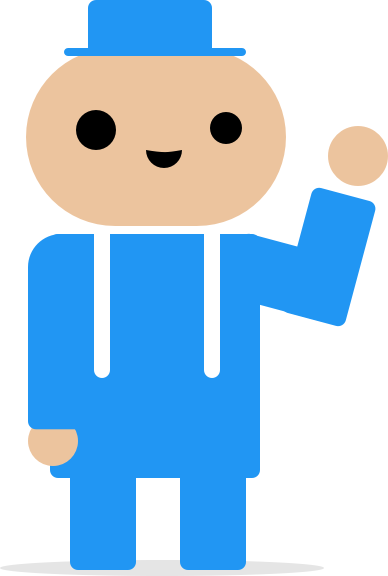
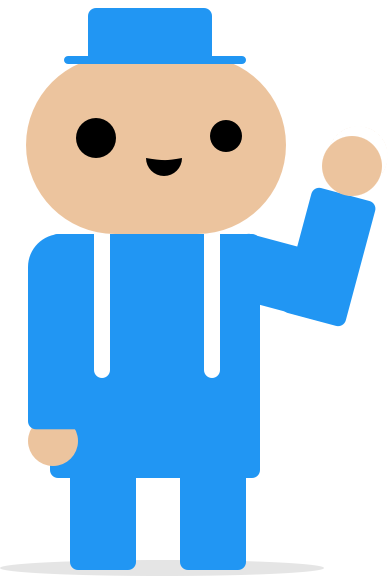
Donation tweaks
- Update paypal image
- Move popup visibility calculation into background
- Make popup visibility persistent to a suspended tab (even after discard cycle)
- Allow popup to show immediately if active tab is suspended (or undiscarded)

diff --git a/src/js/suspended.js b/src/js/suspended.js
@@ -19,7 +19,7 @@
   let currentUrl;
   let currentFaviconUrl;
   let currentTheme;
-  let currentHideNag;
+  let currentShowNag;
   let currentCommand;
   let currentReason;
 
@@ -184,24 +184,27 @@
     reasonMsgEl.innerHTML = reason;
   }
 
-  function handleDonationPopup(hideNag) {
-    const queueNag = !hideNag && !showingNag && currentHideNag !== hideNag;
-    currentHideNag = hideNag;
+  function handleDonationPopup(showNag, tabActive) {
+    const queueNag = showNag && !showingNag && currentShowNag !== showNag;
+    currentShowNag = showNag;
 
     if (queueNag) {
-      //show dude and donate link (randomly 1 of 20 times)
-      if (Math.random() > 0.95) {
-        var donationPopupFocusListener = function(e) {
-          e.target.removeEventListener('focus', donationPopupFocusListener);
+      var donationPopupFocusListener = function(e) {
+        if (e) {
+          e.target.removeEventListener('visibilitychange', donationPopupFocusListener);
+        }
 
-          //if user has donated since this page was first generated then dont display popup
-          if (!currentHideNag) {
-            loadDonationPopupTemplate();
-          }
-        };
-        window.addEventListener('focus', donationPopupFocusListener);
+        //if user has donated since this page was first generated then dont display popup
+        if (currentShowNag) {
+          loadDonationPopupTemplate();
+        }
+      };
+      if (tabActive) {
+        donationPopupFocusListener();
+      } else {
+        window.addEventListener('visibilitychange', donationPopupFocusListener);
       }
-    } else if (hideNag && showingNag) {
+    } else if (showNag && showingNag) {
       showingNag = false;
       document.getElementById('dudePopup').classList.remove('poppedup');
       document.getElementById('donateBubble').classList.remove('fadeIn');
@@ -588,8 +591,8 @@
     if (request.hasOwnProperty('theme')) {
       setTheme(request.theme);
     }
-    if (request.hasOwnProperty('hideNag')) {
-      handleDonationPopup(request.hideNag);
+    if (request.hasOwnProperty('showNag')) {
+      handleDonationPopup(request.showNag, request.tabActive);
     }
     if (request.hasOwnProperty('command')) {
       setCommand(request.command);

diff --git a/src/js/background.js b/src/js/background.js
@@ -24,6 +24,7 @@ var tgs = (function() {
   var TF_UNSUSPEND_ON_RELOAD_URL = 'unsuspendOnReloadUrl';
   var TF_SUSPEND_REASON = 'suspendReason'; // 1=auto-suspend, 2=manual-suspend, 3=discarded
   var TF_SCROLL_POS = 'scrollPos';
+  var TF_SHOW_NAG = 'showNag';
   var TF_SPAWNED_TAB_CREATE_TIMESTAMP = 'spawnedTabCreateTimestamp';
   var TF_SUSPENDED_TAB_INIT_PENDING = 'suspendedTabInitPending';
 
@@ -798,17 +799,26 @@ var tgs = (function() {
       ) {
         previewUri = preview.img;
       }
+
       const options = gsStorage.getSettings();
+
+      //show dude and donate link (randomly 1 of 20 times)
+      let showNag = getTabFlagForTabId(tab.id, TF_SHOW_NAG);
+      if (showNag === undefined || showNag === null) {
+        showNag = !options[gsStorage.NO_NAG] && Math.random() > 0.95;
+        setTabFlagForTabId(tab.id, TF_SHOW_NAG, showNag);
+      }
       getSuspendUnsuspendHotkey(function(hotkey) {
         var payload = {
           tabId: tab.id,
+          tabActive: tab.active,
           requestUnsuspendOnReload: true,
           url: originalUrl,
           favicon: favicon,
           title: title,
           whitelisted: whitelisted,
           theme: options[gsStorage.THEME],
-          hideNag: options[gsStorage.NO_NAG],
+          showNag: showNag,
           previewMode: options[gsStorage.SCREEN_CAPTURE],
           previewUri: previewUri,
           command: hotkey,

diff --git a/src/support.html b/src/support.html
@@ -3,7 +3,7 @@
 <form action="https://www.paypal.com/cgi-bin/webscr" method="post" target="_blank">
   <input type="hidden" name="cmd" value="_s-xclick">
   <input type="hidden" name="hosted_button_id" value="3CKHGNZL3Z8T2">
-  <input type="hidden" name="image_url" value="https://pics.paypal.com/00/s/NzJhOWZjZmYtMjg1OS00YzM0LWJhYzYtMjgxNWI2ODVkODgy/file.PNG">
+  <input type="hidden" name="image_url" value="https://greatsuspender.github.io/img/suspendy-guy-alt.png">
   <input type="hidden" name="return" value="https://greatsuspender.github.io/thanks.html">
   <input id="paypalBtn" class="btn btnDonate" type="submit" name="submit" value="PayPal" title="Donate with PayPal" />
 </form>
